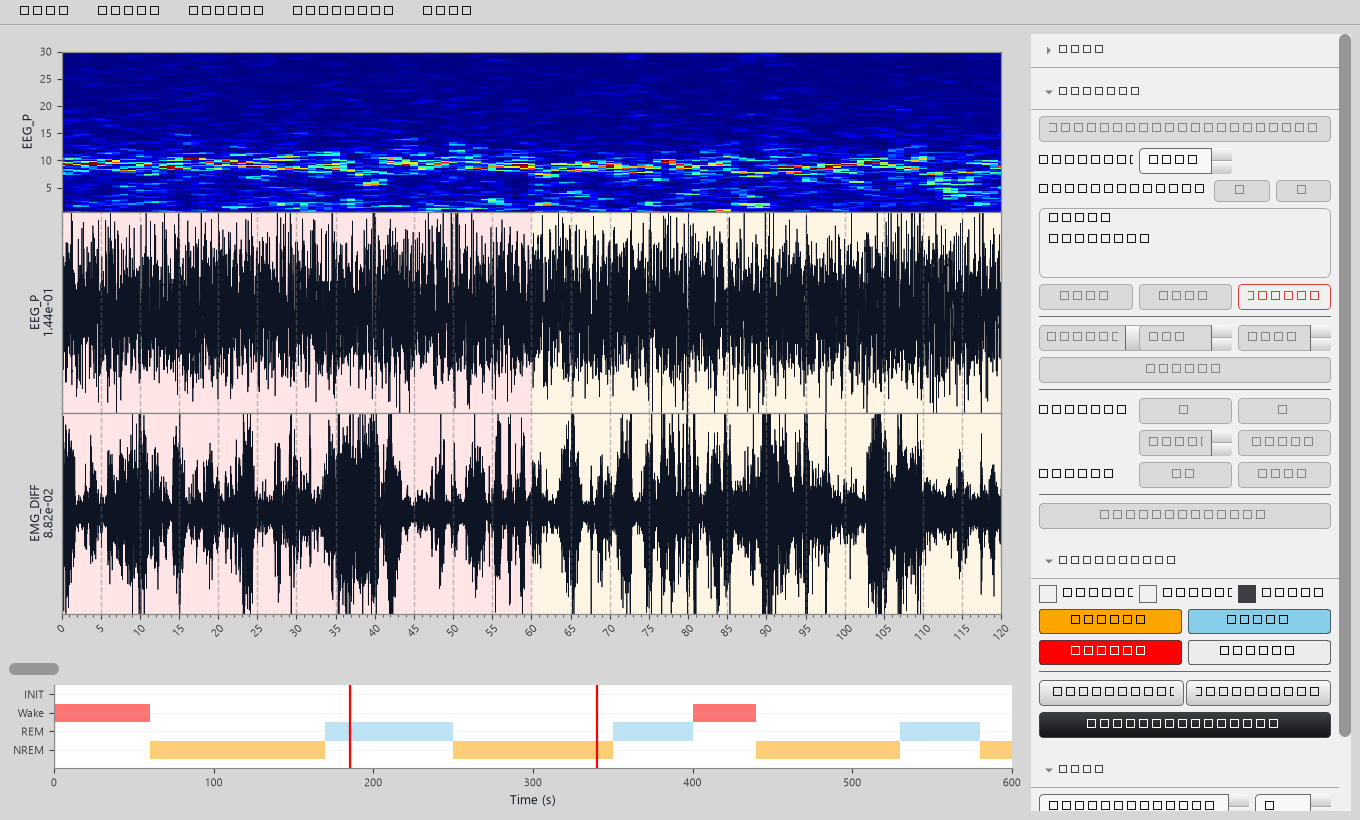
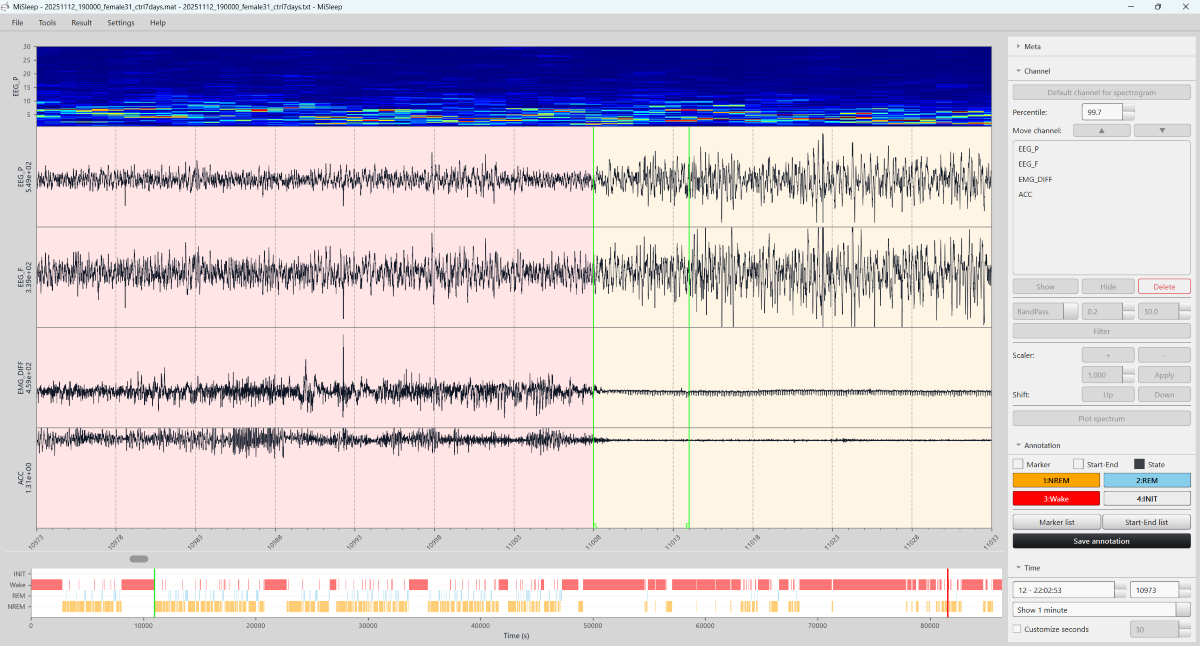
fix(gui): single Ctrl+S binding + tooltip, About reads package version/date
* Removed the duplicate Ctrl+S QShortcut that caused Qt's 'Ambiguous
  shortcut overload' warning - the shortcut now lives only on the
  File > Save Annotation menu action (still Ctrl+S).
* Save annotation button tooltip shows 'Save annotation (Ctrl+S)'.
* About dialog now reads the version and update date from the package /
  bundled defaults instead of the per-user config, which could carry
  stale values (e.g. 2025/01/01) copied from an older install. It now
  shows v0.3.1 / 2026/08/18 regardless of the user's config file.
* Docs screenshot replaced with the user's own render (kept as-is).

diff --git a/src/misleep/gui/main_window.py b/src/misleep/gui/main_window.py
@@ -6,6 +6,7 @@ channels with sleep-state background colors, the spectrogram strip, the
 hypnogram, and a collection of dock widgets for channel/scoring tools.
 """
 
+import configparser
 import copy
 import datetime
 import json
@@ -35,7 +36,8 @@ from PySide6.QtWidgets import (
     QWidget,
 )
 
-from misleep.config import load_config, save_config, user_config_path
+from misleep import __version__ as _pkg_version
+from misleep.config import default_config_path, load_config, save_config, user_config_path
 from misleep.data import MiAnnotation, MiData
 from misleep.gui.config_dialog import SettingsDialog
 from misleep.gui.dialogs import (
@@ -188,9 +190,16 @@ class MainWindow(QMainWindow, Ui_MiSleep):
         # Initial params for widgets
         self.channel_slm = ChannelListModel()
 
-        # Initial dialogs and secondary windows
-        self.about_dialog = AboutDialog(version=self.config["gui"]["version"],
-                                        update_time=self.config["gui"]["updatetime"])
+        # Initial dialogs and secondary windows.
+        # Version / update date are package metadata: the per-user config
+        # may still carry stale values copied from an older install (which
+        # is why About used to show 2025/01/01), so read them from the
+        # package and the bundled defaults instead.
+        _default_cfg = configparser.ConfigParser()
+        _default_cfg.read(default_config_path(), encoding="utf-8")
+        self.about_dialog = AboutDialog(
+            version=f"v{_pkg_version}",
+            update_time=_default_cfg.get("gui", "updatetime", fallback="2026/08/18"))
         # Secondary analysis windows are created on first use.  Constructing
         # every Qt form during startup costs time even when most sessions only
         # annotate signals.
@@ -554,10 +563,12 @@ class MainWindow(QMainWindow, Ui_MiSleep):
         self.load_annoSc = QShortcut(QKeySequence("Shift+A"), self)
         self.load_annoSc.activated.connect(self.load_anno)
 
-        # Save labels
+        # Save labels: the Ctrl+S shortcut lives on the menu action
+        # (File > Save Annotation) so it shows in the menu; registering a
+        # second QShortcut here would make Qt report an "Ambiguous shortcut
+        # overload" for Ctrl+S.
         self.SaveLabelBt.clicked.connect(self.save_anno)
-        self.saveSc = QShortcut(QKeySequence("Ctrl+S"), self)
-        self.saveSc.activated.connect(self.save_anno)
+        self.SaveLabelBt.setToolTip("Save annotation (Ctrl+S)")
 
         # Dynamic state-label buttons in the Annotation dock
         self._sync_state_buttons()
